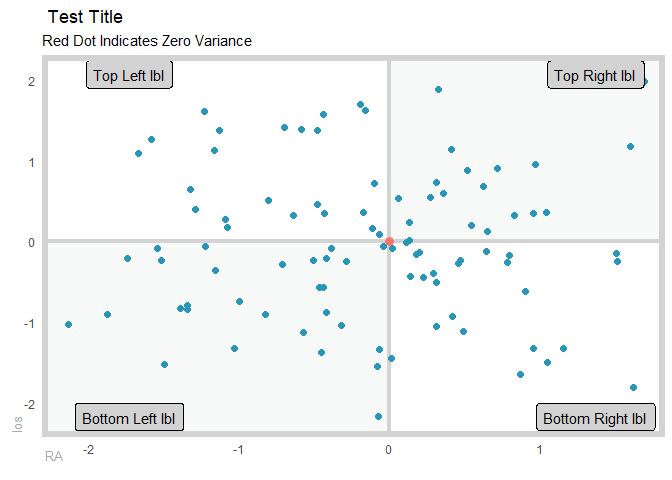
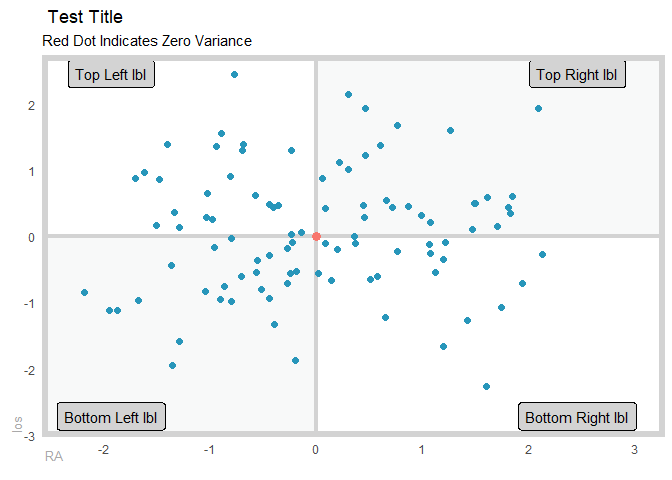
add lifecycle badge, issue cran checklist

diff --git a/docs/index.html b/docs/index.html
@@ -88,78 +88,82 @@
 <a href="#healthyr-" class="anchor"></a>healthyR <img src="reference/figures/healthyR_2.png" width="147" height="170" align="right">
 </h1></div>
 <!-- badges: start -->
-<!-- badges: end -->
+
 <p>The goal of healthyR is to help quickly analyze common data problems in the Administrative and Clincial spaces.</p>
 <div id="installation-not-yet-on-cran" class="section level2">
 <h2 class="hasAnchor">
 <a href="#installation-not-yet-on-cran" class="anchor"></a>Installation NOT YET ON CRAN</h2>
 <p>You can install the released version of healthyR from <a href="https://CRAN.R-project.org">CRAN</a> with:</p>
-<div class="sourceCode" id="cb1"><pre class="sourceCode R"><code class="sourceCode r"><span id="cb1-1"><a href="#cb1-1" aria-hidden="true"></a><span class="kw">install.packages</span>(<span class="st">"healthyR"</span>)</span></code></pre></div>
+<div class="sourceCode" id="cb1"><pre class="downlit sourceCode r">
+<code class="sourceCode R"><span class="fu"><a href="https://rdrr.io/r/utils/install.packages.html">install.packages</a></span><span class="op">(</span><span class="st">"healthyR"</span><span class="op">)</span></code></pre></div>
 <p>And the development version from <a href="https://github.com/">GitHub</a> with:</p>
-<div class="sourceCode" id="cb2"><pre class="sourceCode R"><code class="sourceCode r"><span id="cb2-1"><a href="#cb2-1" aria-hidden="true"></a><span class="co"># install.packages("devtools")</span></span>
-<span id="cb2-2"><a href="#cb2-2" aria-hidden="true"></a>devtools<span class="op">::</span><span class="kw">install_github</span>(<span class="st">"spsanderson/healthyR"</span>)</span></code></pre></div>
+<div class="sourceCode" id="cb2"><pre class="downlit sourceCode r">
+<code class="sourceCode R"><span class="co"># install.packages("devtools")</span>
+<span class="fu">devtools</span><span class="fu">::</span><span class="fu"><a href="https://devtools.r-lib.org//reference/remote-reexports.html">install_github</a></span><span class="op">(</span><span class="st">"spsanderson/healthyR"</span><span class="op">)</span></code></pre></div>
 </div>
 <div id="example" class="section level2">
 <h2 class="hasAnchor">
 <a href="#example" class="anchor"></a>Example</h2>
 <p>This is a basic example of using the ts_median_excess_plt() function`:</p>
-<div class="sourceCode" id="cb3"><pre class="sourceCode R"><code class="sourceCode r"><span id="cb3-1"><a href="#cb3-1" aria-hidden="true"></a><span class="kw">library</span>(healthyR)</span>
-<span id="cb3-2"><a href="#cb3-2" aria-hidden="true"></a><span class="kw">library</span>(timetk)</span>
-<span id="cb3-3"><a href="#cb3-3" aria-hidden="true"></a><span class="co">#&gt; Warning: package 'timetk' was built under R version 4.0.3</span></span>
-<span id="cb3-4"><a href="#cb3-4" aria-hidden="true"></a></span>
-<span id="cb3-5"><a href="#cb3-5" aria-hidden="true"></a><span class="kw">ts_ymwdh_tbl</span>(<span class="dt">.data =</span> m4_daily, <span class="dt">.date_col =</span> date) <span class="op">%&gt;%</span></span>
-<span id="cb3-6"><a href="#cb3-6" aria-hidden="true"></a><span class="st">    </span><span class="kw">ts_median_excess_plt</span>(</span>
-<span id="cb3-7"><a href="#cb3-7" aria-hidden="true"></a>        <span class="dt">.date_col =</span> date</span>
-<span id="cb3-8"><a href="#cb3-8" aria-hidden="true"></a>        , <span class="dt">.value_col =</span> value</span>
-<span id="cb3-9"><a href="#cb3-9" aria-hidden="true"></a>        , <span class="dt">.x_axis =</span> wk</span>
-<span id="cb3-10"><a href="#cb3-10" aria-hidden="true"></a>        , <span class="dt">.ggplot_group_var =</span> yr</span>
-<span id="cb3-11"><a href="#cb3-11" aria-hidden="true"></a>        , <span class="dt">.years_back =</span> <span class="dv">5</span></span>
-<span id="cb3-12"><a href="#cb3-12" aria-hidden="true"></a>    )</span>
-<span id="cb3-13"><a href="#cb3-13" aria-hidden="true"></a><span class="co">#&gt; Joining, by = "wk"</span></span></code></pre></div>
+<div class="sourceCode" id="cb3"><pre class="downlit sourceCode r">
+<code class="sourceCode R"><span class="kw"><a href="https://rdrr.io/r/base/library.html">library</a></span><span class="op">(</span><span class="va"><a href="https://github.com/spsanderson/healthyR">healthyR</a></span><span class="op">)</span>
+<span class="kw"><a href="https://rdrr.io/r/base/library.html">library</a></span><span class="op">(</span><span class="va"><a href="https://github.com/business-science/timetk">timetk</a></span><span class="op">)</span>
+
+<span class="fu"><a href="reference/ts_ymwdh_tbl.html">ts_ymwdh_tbl</a></span><span class="op">(</span>.data <span class="op">=</span> <span class="va">m4_daily</span>, .date_col <span class="op">=</span> <span class="va">date</span><span class="op">)</span> <span class="op">%&gt;%</span>
+    <span class="fu"><a href="reference/ts_median_excess_plt.html">ts_median_excess_plt</a></span><span class="op">(</span>
+        .date_col <span class="op">=</span> <span class="va">date</span>
+        , .value_col <span class="op">=</span> <span class="va">value</span>
+        , .x_axis <span class="op">=</span> <span class="va">wk</span>
+        , .ggplot_group_var <span class="op">=</span> <span class="va">yr</span>
+        , .years_back <span class="op">=</span> <span class="fl">5</span>
+    <span class="op">)</span>
+<span class="co">#&gt; Joining, by = "wk"</span></code></pre></div>
 <p><img src="reference/figures/README-example-1.png" width="100%"></p>
 <p>Here is a simple example of using the ts_ymwdh_tbl() function:</p>
-<div class="sourceCode" id="cb4"><pre class="sourceCode R"><code class="sourceCode r"><span id="cb4-1"><a href="#cb4-1" aria-hidden="true"></a><span class="kw">library</span>(healthyR)</span>
-<span id="cb4-2"><a href="#cb4-2" aria-hidden="true"></a><span class="kw">library</span>(timetk)</span>
-<span id="cb4-3"><a href="#cb4-3" aria-hidden="true"></a></span>
-<span id="cb4-4"><a href="#cb4-4" aria-hidden="true"></a><span class="kw">ts_ymwdh_tbl</span>(<span class="dt">.data =</span> m4_daily, <span class="dt">.date_col =</span> date)</span>
-<span id="cb4-5"><a href="#cb4-5" aria-hidden="true"></a><span class="co">#&gt; # A tibble: 9,743 x 8</span></span>
-<span id="cb4-6"><a href="#cb4-6" aria-hidden="true"></a><span class="co">#&gt;    id    date       value    yr mn       wk wd       hr</span></span>
-<span id="cb4-7"><a href="#cb4-7" aria-hidden="true"></a><span class="co">#&gt;    &lt;fct&gt; &lt;date&gt;     &lt;dbl&gt; &lt;dbl&gt; &lt;ord&gt; &lt;dbl&gt; &lt;ord&gt; &lt;int&gt;</span></span>
-<span id="cb4-8"><a href="#cb4-8" aria-hidden="true"></a><span class="co">#&gt;  1 D10   2014-07-03 2076.  2014 Jul      27 Thu       0</span></span>
-<span id="cb4-9"><a href="#cb4-9" aria-hidden="true"></a><span class="co">#&gt;  2 D10   2014-07-04 2073.  2014 Jul      27 Fri       0</span></span>
-<span id="cb4-10"><a href="#cb4-10" aria-hidden="true"></a><span class="co">#&gt;  3 D10   2014-07-05 2049.  2014 Jul      27 Sat       0</span></span>
-<span id="cb4-11"><a href="#cb4-11" aria-hidden="true"></a><span class="co">#&gt;  4 D10   2014-07-06 2049.  2014 Jul      27 Sun       0</span></span>
-<span id="cb4-12"><a href="#cb4-12" aria-hidden="true"></a><span class="co">#&gt;  5 D10   2014-07-07 2006.  2014 Jul      28 Mon       0</span></span>
-<span id="cb4-13"><a href="#cb4-13" aria-hidden="true"></a><span class="co">#&gt;  6 D10   2014-07-08 2018.  2014 Jul      28 Tue       0</span></span>
-<span id="cb4-14"><a href="#cb4-14" aria-hidden="true"></a><span class="co">#&gt;  7 D10   2014-07-09 2019.  2014 Jul      28 Wed       0</span></span>
-<span id="cb4-15"><a href="#cb4-15" aria-hidden="true"></a><span class="co">#&gt;  8 D10   2014-07-10 2007.  2014 Jul      28 Thu       0</span></span>
-<span id="cb4-16"><a href="#cb4-16" aria-hidden="true"></a><span class="co">#&gt;  9 D10   2014-07-11 2010   2014 Jul      28 Fri       0</span></span>
-<span id="cb4-17"><a href="#cb4-17" aria-hidden="true"></a><span class="co">#&gt; 10 D10   2014-07-12 2002.  2014 Jul      28 Sat       0</span></span>
-<span id="cb4-18"><a href="#cb4-18" aria-hidden="true"></a><span class="co">#&gt; # ... with 9,733 more rows</span></span></code></pre></div>
+<div class="sourceCode" id="cb4"><pre class="downlit sourceCode r">
+<code class="sourceCode R"><span class="kw"><a href="https://rdrr.io/r/base/library.html">library</a></span><span class="op">(</span><span class="va"><a href="https://github.com/spsanderson/healthyR">healthyR</a></span><span class="op">)</span>
+<span class="kw"><a href="https://rdrr.io/r/base/library.html">library</a></span><span class="op">(</span><span class="va"><a href="https://github.com/business-science/timetk">timetk</a></span><span class="op">)</span>
+
+<span class="fu"><a href="reference/ts_ymwdh_tbl.html">ts_ymwdh_tbl</a></span><span class="op">(</span>.data <span class="op">=</span> <span class="va">m4_daily</span>, .date_col <span class="op">=</span> <span class="va">date</span><span class="op">)</span>
+<span class="co">#&gt; # A tibble: 9,743 x 8</span>
+<span class="co">#&gt;    id    date       value    yr mn       wk wd       hr</span>
+<span class="co">#&gt;    &lt;fct&gt; &lt;date&gt;     &lt;dbl&gt; &lt;dbl&gt; &lt;ord&gt; &lt;dbl&gt; &lt;ord&gt; &lt;int&gt;</span>
+<span class="co">#&gt;  1 D10   2014-07-03 2076.  2014 Jul      27 Thu       0</span>
+<span class="co">#&gt;  2 D10   2014-07-04 2073.  2014 Jul      27 Fri       0</span>
+<span class="co">#&gt;  3 D10   2014-07-05 2049.  2014 Jul      27 Sat       0</span>
+<span class="co">#&gt;  4 D10   2014-07-06 2049.  2014 Jul      27 Sun       0</span>
+<span class="co">#&gt;  5 D10   2014-07-07 2006.  2014 Jul      28 Mon       0</span>
+<span class="co">#&gt;  6 D10   2014-07-08 2018.  2014 Jul      28 Tue       0</span>
+<span class="co">#&gt;  7 D10   2014-07-09 2019.  2014 Jul      28 Wed       0</span>
+<span class="co">#&gt;  8 D10   2014-07-10 2007.  2014 Jul      28 Thu       0</span>
+<span class="co">#&gt;  9 D10   2014-07-11 2010   2014 Jul      28 Fri       0</span>
+<span class="co">#&gt; 10 D10   2014-07-12 2002.  2014 Jul      28 Sat       0</span>
+<span class="co">#&gt; # ... with 9,733 more rows</span></code></pre></div>
 <p>Here is a simple example of using the plt_gartner_magic_chart() function:</p>
-<div class="sourceCode" id="cb5"><pre class="sourceCode R"><code class="sourceCode r"><span id="cb5-1"><a href="#cb5-1" aria-hidden="true"></a><span class="kw">library</span>(healthyR)</span>
-<span id="cb5-2"><a href="#cb5-2" aria-hidden="true"></a><span class="kw">library</span>(tibble)</span>
-<span id="cb5-3"><a href="#cb5-3" aria-hidden="true"></a><span class="kw">library</span>(dplyr)</span>
-<span id="cb5-4"><a href="#cb5-4" aria-hidden="true"></a><span class="co">#&gt; </span></span>
-<span id="cb5-5"><a href="#cb5-5" aria-hidden="true"></a><span class="co">#&gt; Attaching package: 'dplyr'</span></span>
-<span id="cb5-6"><a href="#cb5-6" aria-hidden="true"></a><span class="co">#&gt; The following objects are masked from 'package:stats':</span></span>
-<span id="cb5-7"><a href="#cb5-7" aria-hidden="true"></a><span class="co">#&gt; </span></span>
-<span id="cb5-8"><a href="#cb5-8" aria-hidden="true"></a><span class="co">#&gt;     filter, lag</span></span>
-<span id="cb5-9"><a href="#cb5-9" aria-hidden="true"></a><span class="co">#&gt; The following objects are masked from 'package:base':</span></span>
-<span id="cb5-10"><a href="#cb5-10" aria-hidden="true"></a><span class="co">#&gt; </span></span>
-<span id="cb5-11"><a href="#cb5-11" aria-hidden="true"></a><span class="co">#&gt;     intersect, setdiff, setequal, union</span></span>
-<span id="cb5-12"><a href="#cb5-12" aria-hidden="true"></a><span class="kw">gartner_magic_chart_plt</span>(</span>
-<span id="cb5-13"><a href="#cb5-13" aria-hidden="true"></a>  <span class="dt">.data =</span> <span class="kw">tibble</span>(<span class="dt">x =</span> <span class="kw">rnorm</span>(<span class="dv">100</span>, <span class="dv">0</span>, <span class="dv">1</span>), <span class="dt">y =</span> <span class="kw">rnorm</span>(<span class="dv">100</span>, <span class="dv">0</span>, <span class="dv">1</span>))</span>
-<span id="cb5-14"><a href="#cb5-14" aria-hidden="true"></a>  , <span class="dt">.x_col =</span> x</span>
-<span id="cb5-15"><a href="#cb5-15" aria-hidden="true"></a>  , <span class="dt">.y_col =</span> y</span>
-<span id="cb5-16"><a href="#cb5-16" aria-hidden="true"></a>  , <span class="dt">.y_lab =</span> <span class="st">"los"</span></span>
-<span id="cb5-17"><a href="#cb5-17" aria-hidden="true"></a>  , <span class="dt">.x_lab =</span> <span class="st">"RA"</span></span>
-<span id="cb5-18"><a href="#cb5-18" aria-hidden="true"></a>  , <span class="dt">.plt_title =</span> <span class="st">"Test Title"</span></span>
-<span id="cb5-19"><a href="#cb5-19" aria-hidden="true"></a>  , <span class="dt">.tl_lbl =</span> <span class="st">"Top Left lbl"</span></span>
-<span id="cb5-20"><a href="#cb5-20" aria-hidden="true"></a>  , <span class="dt">.tr_lbl =</span> <span class="st">"Top Right lbl"</span></span>
-<span id="cb5-21"><a href="#cb5-21" aria-hidden="true"></a>  , <span class="dt">.bl_lbl =</span> <span class="st">"Bottom Left lbl"</span></span>
-<span id="cb5-22"><a href="#cb5-22" aria-hidden="true"></a>  , <span class="dt">.br_lbl =</span> <span class="st">"Bottom Right lbl"</span></span>
-<span id="cb5-23"><a href="#cb5-23" aria-hidden="true"></a>)</span></code></pre></div>
+<div class="sourceCode" id="cb5"><pre class="downlit sourceCode r">
+<code class="sourceCode R"><span class="kw"><a href="https://rdrr.io/r/base/library.html">library</a></span><span class="op">(</span><span class="va"><a href="https://github.com/spsanderson/healthyR">healthyR</a></span><span class="op">)</span>
+<span class="kw"><a href="https://rdrr.io/r/base/library.html">library</a></span><span class="op">(</span><span class="va"><a href="https://tibble.tidyverse.org/">tibble</a></span><span class="op">)</span>
+<span class="kw"><a href="https://rdrr.io/r/base/library.html">library</a></span><span class="op">(</span><span class="va"><a href="https://dplyr.tidyverse.org">dplyr</a></span><span class="op">)</span>
+<span class="co">#&gt; </span>
+<span class="co">#&gt; Attaching package: 'dplyr'</span>
+<span class="co">#&gt; The following objects are masked from 'package:stats':</span>
+<span class="co">#&gt; </span>
+<span class="co">#&gt;     filter, lag</span>
+<span class="co">#&gt; The following objects are masked from 'package:base':</span>
+<span class="co">#&gt; </span>
+<span class="co">#&gt;     intersect, setdiff, setequal, union</span>
+<span class="fu"><a href="reference/gartner_magic_chart_plt.html">gartner_magic_chart_plt</a></span><span class="op">(</span>
+  .data <span class="op">=</span> <span class="fu"><a href="https://tibble.tidyverse.org/reference/tibble.html">tibble</a></span><span class="op">(</span>x <span class="op">=</span> <span class="fu"><a href="https://rdrr.io/r/stats/Normal.html">rnorm</a></span><span class="op">(</span><span class="fl">100</span>, <span class="fl">0</span>, <span class="fl">1</span><span class="op">)</span>, y <span class="op">=</span> <span class="fu"><a href="https://rdrr.io/r/stats/Normal.html">rnorm</a></span><span class="op">(</span><span class="fl">100</span>, <span class="fl">0</span>, <span class="fl">1</span><span class="op">)</span><span class="op">)</span>
+  , .x_col <span class="op">=</span> <span class="va">x</span>
+  , .y_col <span class="op">=</span> <span class="va">y</span>
+  , .y_lab <span class="op">=</span> <span class="st">"los"</span>
+  , .x_lab <span class="op">=</span> <span class="st">"RA"</span>
+  , .plt_title <span class="op">=</span> <span class="st">"Test Title"</span>
+  , .tl_lbl <span class="op">=</span> <span class="st">"Top Left lbl"</span>
+  , .tr_lbl <span class="op">=</span> <span class="st">"Top Right lbl"</span>
+  , .bl_lbl <span class="op">=</span> <span class="st">"Bottom Left lbl"</span>
+  , .br_lbl <span class="op">=</span> <span class="st">"Bottom Right lbl"</span>
+<span class="op">)</span></code></pre></div>
 <p><img src="reference/figures/README-gartner_chart-1.png" width="100%"></p>
 </div>
 </div>
@@ -190,7 +194,13 @@
 </ul>
 </div>
 
-  </div>
+  <div class="dev-status">
+<h2>Dev status</h2>
+<ul class="list-unstyled">
+<li><a href="https://www.tidyverse.org/lifecycle/#experimental"><img src="https://img.shields.io/badge/lifecycle-experimental-orange.svg" alt="Lifecycle: experimental"></a></li>
+</ul>
+</div>
+</div>
 </div>
 
 

diff --git a/docs/articles/getting-started.html b/docs/articles/getting-started.html
@@ -90,7 +90,7 @@
             <h3 class="subtitle">A Quick Introduction</h3>
                         <h4 class="author">Steven P. Sanderson II, MPH</h4>
             
-            <h4 class="date">2020-11-11</h4>
+            <h4 class="date">2020-11-24</h4>
       
       <small class="dont-index">Source: <a href="https://github.com/spsanderson/healthyR/blob/master/vignettes/getting-started.Rmd"><code>vignettes/getting-started.Rmd</code></a></small>
       <div class="hidden name"><code>getting-started.Rmd</code></div>
@@ -160,7 +160,7 @@
   , .interactive <span class="op">=</span> <span class="cn">TRUE</span>
 <span class="op">)</span></code></pre></div>
 <div id="htmlwidget-5f9add76c3579b426da7" style="width:95%;height:450px;" class="plotly html-widget"></div>
-<script type="application/json" data-for="htmlwidget-5f9add76c3579b426da7">{"x":{"data":[{"x":["2019-01-01","2019-02-01","2019-03-01","2019-04-01","2019-05-01","2019-06-01","2019-07-01","2019-08-01","2019-09-01","2019-10-01","2019-11-01","2019-12-01","2020-01-01","2020-02-01","2020-03-01","2020-04-01","2020-05-01","2020-06-01","2020-07-01"],"y":[7.9250046964209,7.11102484085131,7.54077755309071,7.59627604969622,7.44929036305797,7.40050995865992,7.53757064257027,7.51136458846891,7.66347521120527,7.26223597517087,7.36445771281918,7.52816434292453,7.51204280960073,7.38782165660362,7.3328502720312,7.42973463140273,7.29850236874735,7.58981851837598,9.27182373241521],"text":["date: 2019-01-01<br />.value: 7.925005","date: 2019-02-01<br />.value: 7.111025","date: 2019-03-01<br />.value: 7.540778","date: 2019-04-01<br />.value: 7.596276","date: 2019-05-01<br />.value: 7.449290","date: 2019-06-01<br />.value: 7.400510","date: 2019-07-01<br />.value: 7.537571","date: 2019-08-01<br />.value: 7.511365","date: 2019-09-01<br />.value: 7.663475","date: 2019-10-01<br />.value: 7.262236","date: 2019-11-01<br />.value: 7.364458","date: 2019-12-01<br />.value: 7.528164","date: 2020-01-01<br />.value: 7.512043","date: 2020-02-01<br />.value: 7.387822","date: 2020-03-01<br />.value: 7.332850","date: 2020-04-01<br />.value: 7.429735","date: 2020-05-01<br />.value: 7.298502","date: 2020-06-01<br />.value: 7.589819","date: 2020-07-01<br />.value: 9.271824"],"type":"scatter","mode":"lines","line":{"width":1.88976377952756,"color":"rgba(44,62,80,1)","dash":"solid"},"hoveron":"points","showlegend":false,"xaxis":"x","yaxis":"y","hoverinfo":"text","frame":null},{"x":["2019-01-01","2019-02-01","2019-03-01","2019-04-01","2019-05-01","2019-06-01","2019-07-01","2019-08-01","2019-09-01","2019-10-01","2019-11-01","2019-12-01","2020-01-01","2020-02-01","2020-03-01","2020-04-01","2020-05-01","2020-06-01","2020-07-01"],"y":[7.61068931522505,7.56532844121895,7.5291286964224,7.50386083297645,7.48636196307439,7.48043259909367,7.48409872426944,7.48340103366478,7.47725933871844,7.4700564949986,7.43014015503159,7.36973384704721,7.34888664585791,7.351340617546,7.41444949347947,7.5805932114223,7.8160538477958,8.13659865267639,8.53449466113692],"text":[".value_smooth: 7.610689<br />date: 2019-01-01<br />.value: 7.610689",".value_smooth: 7.565328<br />date: 2019-02-01<br />.value: 7.565328",".value_smooth: 7.529129<br />date: 2019-03-01<br />.value: 7.529129",".value_smooth: 7.503861<br />date: 2019-04-01<br />.value: 7.503861",".value_smooth: 7.486362<br />date: 2019-05-01<br />.value: 7.486362",".value_smooth: 7.480433<br />date: 2019-06-01<br />.value: 7.480433",".value_smooth: 7.484099<br />date: 2019-07-01<br />.value: 7.484099",".value_smooth: 7.483401<br />date: 2019-08-01<br />.value: 7.483401",".value_smooth: 7.477259<br />date: 2019-09-01<br />.value: 7.477259",".value_smooth: 7.470056<br />date: 2019-10-01<br />.value: 7.470056",".value_smooth: 7.430140<br />date: 2019-11-01<br />.value: 7.430140",".value_smooth: 7.369734<br />date: 2019-12-01<br />.value: 7.369734",".value_smooth: 7.348887<br />date: 2020-01-01<br />.value: 7.348887",".value_smooth: 7.351341<br />date: 2020-02-01<br />.value: 7.351341",".value_smooth: 7.414449<br />date: 2020-03-01<br />.value: 7.414449",".value_smooth: 7.580593<br />date: 2020-04-01<br />.value: 7.580593",".value_smooth: 7.816054<br />date: 2020-05-01<br />.value: 7.816054",".value_smooth: 8.136599<br />date: 2020-06-01<br />.value: 8.136599",".value_smooth: 8.534495<br />date: 2020-07-01<br />.value: 8.534495"],"type":"scatter","mode":"lines","line":{"width":3.77952755905512,"color":"rgba(51,102,255,1)","dash":"solid"},"hoveron":"points","showlegend":false,"xaxis":"x","yaxis":"y","hoverinfo":"text","frame":null}],"layout":{"margin":{"t":46.5225773718924,"r":7.30593607305936,"b":28.3307965499746,"l":28.4931506849315},"plot_bgcolor":"rgba(255,255,255,1)","paper_bgcolor":"rgba(255,255,255,1)","font":{"color":"rgba(44,62,80,1)","family":"","size":14.6118721461187},"title":{"text":"Average Length of Stay Plot","font":{"color":"rgba(44,62,80,1)","family":"","size":17.5342465753425},"x":0,"xref":"paper"},"xaxis":{"domain":[0,1],"automargin":true,"type":"date","autorange":true,"range":["2018-12-04","2020-07-28"],"tickmode":"auto","ticktext":["2019-01","2019-07","2020-01","2020-07"],"tickvals":[17897,18078,18262,18444],"categoryorder":"array","categoryarray":["2019-01","2019-07","2020-01","2020-07"],"nticks":null,"ticks":"outside","tickcolor":"rgba(204,204,204,1)","ticklen":3.65296803652968,"tickwidth":0.22139200221392,"showticklabels":true,"tickfont":{"color":"rgba(44,62,80,1)","family":"","size":11.689497716895},"tickangle":-0,"showline":false,"linecolor":null,"linewidth":0,"showgrid":true,"gridcolor":"rgba(204,204,204,1)","gridwidth":0.22139200221392,"zeroline":false,"anchor":"y","title":{"text":"","font":{"color":"rgba(44,62,80,1)","family":"","size":14.6118721461187}},"hoverformat":".2f"},"yaxis":{"domain":[0,1],"automargin":true,"type":"linear","autorange":true,"range":[7.00298489627312,9.37986367699341],"tickmode":"auto","ticktext":["7.5","8.0","8.5","9.0"],"tickvals":[7.5,8,8.5,9],"categoryorder":"array","categoryarray":["7.5","8.0","8.5","9.0"],"nticks":null,"ticks":"outside","tickcolor":"rgba(204,204,204,1)","ticklen":3.65296803652968,"tickwidth":0.22139200221392,"showticklabels":true,"tickfont":{"color":"rgba(44,62,80,1)","family":"","size":11.689497716895},"tickangle":-0,"showline":false,"linecolor":null,"linewidth":0,"showgrid":true,"gridcolor":"rgba(204,204,204,1)","gridwidth":0.22139200221392,"zeroline":false,"anchor":"x","title":{"text":"","font":{"color":"rgba(44,62,80,1)","family":"","size":14.6118721461187}},"hoverformat":".2f"},"shapes":[{"type":"rect","fillcolor":"transparent","line":{"color":"rgba(44,62,80,1)","width":0.33208800332088,"linetype":"solid"},"yref":"paper","xref":"paper","x0":0,"x1":1,"y0":0,"y1":1}],"showlegend":false,"legend":{"bgcolor":"rgba(255,255,255,1)","bordercolor":"transparent","borderwidth":1.88976377952756,"font":{"color":"rgba(44,62,80,1)","family":"","size":11.689497716895}},"hovermode":"closest","barmode":"relative"},"config":{"doubleClick":"reset","showSendToCloud":false},"source":"A","attrs":{"1fdc4d8fdb3":{"x":{},"y":{},"type":"scatter"},"1fdc107ecf":{"y":{},"x":{},"y.1":{}}},"cur_data":"1fdc4d8fdb3","visdat":{"1fdc4d8fdb3":["function (y) ","x"],"1fdc107ecf":["function (y) ","x"]},"highlight":{"on":"plotly_click","persistent":false,"dynamic":false,"selectize":false,"opacityDim":0.2,"selected":{"opacity":1},"debounce":0},"shinyEvents":["plotly_hover","plotly_click","plotly_selected","plotly_relayout","plotly_brushed","plotly_brushing","plotly_clickannotation","plotly_doubleclick","plotly_deselect","plotly_afterplot","plotly_sunburstclick"],"base_url":"https://plot.ly"},"evals":[],"jsHooks":[]}</script><p>As we can see, this function has the ability to return either a static plot or and interactive plot. Under the hood it is using the <code><a href="https://rdrr.io/pkg/timetk/man/plot_time_series.html">timetk::plot_time_series</a></code> function. You can find out more on the the timetk function <a href="https://business-science.github.io/timetk/reference/plot_time_series.html">here.</a></p>
+<script type="application/json" data-for="htmlwidget-5f9add76c3579b426da7">{"x":{"data":[{"x":["2019-01-01","2019-02-01","2019-03-01","2019-04-01","2019-05-01","2019-06-01","2019-07-01","2019-08-01","2019-09-01","2019-10-01","2019-11-01","2019-12-01","2020-01-01","2020-02-01","2020-03-01","2020-04-01","2020-05-01","2020-06-01","2020-07-01"],"y":[7.9250046964209,7.11102484085131,7.54077755309071,7.59627604969622,7.44929036305797,7.40050995865992,7.53757064257027,7.51136458846891,7.66347521120527,7.26223597517087,7.36445771281918,7.52816434292453,7.51204280960073,7.38782165660362,7.3328502720312,7.42973463140273,7.29850236874735,7.58981851837598,9.27182373241521],"text":["date: 2019-01-01<br />.value: 7.925005","date: 2019-02-01<br />.value: 7.111025","date: 2019-03-01<br />.value: 7.540778","date: 2019-04-01<br />.value: 7.596276","date: 2019-05-01<br />.value: 7.449290","date: 2019-06-01<br />.value: 7.400510","date: 2019-07-01<br />.value: 7.537571","date: 2019-08-01<br />.value: 7.511365","date: 2019-09-01<br />.value: 7.663475","date: 2019-10-01<br />.value: 7.262236","date: 2019-11-01<br />.value: 7.364458","date: 2019-12-01<br />.value: 7.528164","date: 2020-01-01<br />.value: 7.512043","date: 2020-02-01<br />.value: 7.387822","date: 2020-03-01<br />.value: 7.332850","date: 2020-04-01<br />.value: 7.429735","date: 2020-05-01<br />.value: 7.298502","date: 2020-06-01<br />.value: 7.589819","date: 2020-07-01<br />.value: 9.271824"],"type":"scatter","mode":"lines","line":{"width":1.88976377952756,"color":"rgba(44,62,80,1)","dash":"solid"},"hoveron":"points","showlegend":false,"xaxis":"x","yaxis":"y","hoverinfo":"text","frame":null},{"x":["2019-01-01","2019-02-01","2019-03-01","2019-04-01","2019-05-01","2019-06-01","2019-07-01","2019-08-01","2019-09-01","2019-10-01","2019-11-01","2019-12-01","2020-01-01","2020-02-01","2020-03-01","2020-04-01","2020-05-01","2020-06-01","2020-07-01"],"y":[7.61068931522505,7.56532844121895,7.5291286964224,7.50386083297645,7.48636196307439,7.48043259909367,7.48409872426944,7.48340103366478,7.47725933871844,7.4700564949986,7.43014015503159,7.36973384704721,7.34888664585791,7.351340617546,7.41444949347947,7.5805932114223,7.8160538477958,8.13659865267639,8.53449466113692],"text":[".value_smooth: 7.610689<br />date: 2019-01-01<br />.value: 7.610689",".value_smooth: 7.565328<br />date: 2019-02-01<br />.value: 7.565328",".value_smooth: 7.529129<br />date: 2019-03-01<br />.value: 7.529129",".value_smooth: 7.503861<br />date: 2019-04-01<br />.value: 7.503861",".value_smooth: 7.486362<br />date: 2019-05-01<br />.value: 7.486362",".value_smooth: 7.480433<br />date: 2019-06-01<br />.value: 7.480433",".value_smooth: 7.484099<br />date: 2019-07-01<br />.value: 7.484099",".value_smooth: 7.483401<br />date: 2019-08-01<br />.value: 7.483401",".value_smooth: 7.477259<br />date: 2019-09-01<br />.value: 7.477259",".value_smooth: 7.470056<br />date: 2019-10-01<br />.value: 7.470056",".value_smooth: 7.430140<br />date: 2019-11-01<br />.value: 7.430140",".value_smooth: 7.369734<br />date: 2019-12-01<br />.value: 7.369734",".value_smooth: 7.348887<br />date: 2020-01-01<br />.value: 7.348887",".value_smooth: 7.351341<br />date: 2020-02-01<br />.value: 7.351341",".value_smooth: 7.414449<br />date: 2020-03-01<br />.value: 7.414449",".value_smooth: 7.580593<br />date: 2020-04-01<br />.value: 7.580593",".value_smooth: 7.816054<br />date: 2020-05-01<br />.value: 7.816054",".value_smooth: 8.136599<br />date: 2020-06-01<br />.value: 8.136599",".value_smooth: 8.534495<br />date: 2020-07-01<br />.value: 8.534495"],"type":"scatter","mode":"lines","line":{"width":3.77952755905512,"color":"rgba(51,102,255,1)","dash":"solid"},"hoveron":"points","showlegend":false,"xaxis":"x","yaxis":"y","hoverinfo":"text","frame":null}],"layout":{"margin":{"t":46.5225773718924,"r":7.30593607305936,"b":28.3307965499746,"l":28.4931506849315},"plot_bgcolor":"rgba(255,255,255,1)","paper_bgcolor":"rgba(255,255,255,1)","font":{"color":"rgba(44,62,80,1)","family":"","size":14.6118721461187},"title":{"text":"Average Length of Stay Plot","font":{"color":"rgba(44,62,80,1)","family":"","size":17.5342465753425},"x":0,"xref":"paper"},"xaxis":{"domain":[0,1],"automargin":true,"type":"date","autorange":true,"range":["2018-12-04","2020-07-28"],"tickmode":"auto","ticktext":["2019-01","2019-07","2020-01","2020-07"],"tickvals":[17897,18078,18262,18444],"categoryorder":"array","categoryarray":["2019-01","2019-07","2020-01","2020-07"],"nticks":null,"ticks":"outside","tickcolor":"rgba(204,204,204,1)","ticklen":3.65296803652968,"tickwidth":0.22139200221392,"showticklabels":true,"tickfont":{"color":"rgba(44,62,80,1)","family":"","size":11.689497716895},"tickangle":-0,"showline":false,"linecolor":null,"linewidth":0,"showgrid":true,"gridcolor":"rgba(204,204,204,1)","gridwidth":0.22139200221392,"zeroline":false,"anchor":"y","title":{"text":"","font":{"color":"rgba(44,62,80,1)","family":"","size":14.6118721461187}},"hoverformat":".2f"},"yaxis":{"domain":[0,1],"automargin":true,"type":"linear","autorange":true,"range":[7.00298489627312,9.37986367699341],"tickmode":"auto","ticktext":["7.5","8.0","8.5","9.0"],"tickvals":[7.5,8,8.5,9],"categoryorder":"array","categoryarray":["7.5","8.0","8.5","9.0"],"nticks":null,"ticks":"outside","tickcolor":"rgba(204,204,204,1)","ticklen":3.65296803652968,"tickwidth":0.22139200221392,"showticklabels":true,"tickfont":{"color":"rgba(44,62,80,1)","family":"","size":11.689497716895},"tickangle":-0,"showline":false,"linecolor":null,"linewidth":0,"showgrid":true,"gridcolor":"rgba(204,204,204,1)","gridwidth":0.22139200221392,"zeroline":false,"anchor":"x","title":{"text":"","font":{"color":"rgba(44,62,80,1)","family":"","size":14.6118721461187}},"hoverformat":".2f"},"shapes":[{"type":"rect","fillcolor":"transparent","line":{"color":"rgba(44,62,80,1)","width":0.33208800332088,"linetype":"solid"},"yref":"paper","xref":"paper","x0":0,"x1":1,"y0":0,"y1":1}],"showlegend":false,"legend":{"bgcolor":"rgba(255,255,255,1)","bordercolor":"transparent","borderwidth":1.88976377952756,"font":{"color":"rgba(44,62,80,1)","family":"","size":11.689497716895}},"hovermode":"closest","barmode":"relative"},"config":{"doubleClick":"reset","showSendToCloud":false},"source":"A","attrs":{"41f837bc56d7":{"x":{},"y":{},"type":"scatter"},"41f81a4113c":{"y":{},"x":{},"y.1":{}}},"cur_data":"41f837bc56d7","visdat":{"41f837bc56d7":["function (y) ","x"],"41f81a4113c":["function (y) ","x"]},"highlight":{"on":"plotly_click","persistent":false,"dynamic":false,"selectize":false,"opacityDim":0.2,"selected":{"opacity":1},"debounce":0},"shinyEvents":["plotly_hover","plotly_click","plotly_selected","plotly_relayout","plotly_brushed","plotly_brushing","plotly_clickannotation","plotly_doubleclick","plotly_deselect","plotly_afterplot","plotly_sunburstclick"],"base_url":"https://plot.ly"},"evals":[],"jsHooks":[]}</script><p>As we can see, this function has the ability to return either a static plot or and interactive plot. Under the hood it is using the <code><a href="https://rdrr.io/pkg/timetk/man/plot_time_series.html">timetk::plot_time_series</a></code> function. You can find out more on the the timetk function <a href="https://business-science.github.io/timetk/reference/plot_time_series.html">here.</a></p>
 <p>That is the end of this first and very quick tutorial on the <code>ts_alos_plt</code> function.</p>
 </div>
   </div>

diff --git a/docs/reference/los_ra_index_summary_tbl.html b/docs/reference/los_ra_index_summary_tbl.html
@@ -211,7 +211,7 @@ over their respective expectations.</p></li>
     <pre class="examples"><div class='input'><span class='kw'><a href='https://rdrr.io/r/base/library.html'>library</a></span><span class='op'>(</span><span class='va'><a href='https://tibble.tidyverse.org/'>tibble</a></span><span class='op'>)</span>
 <span class='kw'><a href='https://rdrr.io/r/base/library.html'>library</a></span><span class='op'>(</span><span class='va'><a href='https://dplyr.tidyverse.org'>dplyr</a></span><span class='op'>)</span>
 <span class='kw'><a href='https://rdrr.io/r/base/library.html'>library</a></span><span class='op'>(</span><span class='va'><a href='https://github.com/business-science/timetk'>timetk</a></span><span class='op'>)</span>
-</div><div class='output co'>#&gt; <span class='warning'>Warning: package 'timetk' was built under R version 4.0.3</span></div><div class='input'><span class='va'>data_tbl</span> <span class='op'>&lt;-</span> <span class='fu'><a href='https://tibble.tidyverse.org/reference/tibble.html'>tibble</a></span><span class='op'>(</span>
+<span class='va'>data_tbl</span> <span class='op'>&lt;-</span> <span class='fu'><a href='https://tibble.tidyverse.org/reference/tibble.html'>tibble</a></span><span class='op'>(</span>
   <span class='st'>"alos"</span>                 <span class='op'>=</span> <span class='fu'><a href='https://rdrr.io/r/stats/Uniform.html'>runif</a></span><span class='op'>(</span><span class='fl'>186</span>, <span class='fl'>1</span>, <span class='fl'>20</span><span class='op'>)</span>
   , <span class='st'>"elos"</span>               <span class='op'>=</span> <span class='fu'><a href='https://rdrr.io/r/stats/Uniform.html'>runif</a></span><span class='op'>(</span><span class='fl'>186</span>, <span class='fl'>1</span>, <span class='fl'>17</span><span class='op'>)</span>
   , <span class='st'>"readmit_rate"</span>       <span class='op'>=</span> <span class='fu'><a href='https://rdrr.io/r/stats/Uniform.html'>runif</a></span><span class='op'>(</span><span class='fl'>186</span>, <span class='fl'>0</span>, <span class='fl'>.25</span><span class='op'>)</span>

diff --git a/docs/reference/ts_ymwdh_tbl.html b/docs/reference/ts_ymwdh_tbl.html
@@ -167,7 +167,7 @@ should be dropped or kept when using further functions</p></li>
     <h2 class="hasAnchor" id="examples"><a class="anchor" href="#examples"></a>Examples</h2>
     <pre class="examples"><div class='input'><span class='kw'><a href='https://rdrr.io/r/base/library.html'>library</a></span><span class='op'>(</span><span class='va'><a href='https://github.com/business-science/timetk'>timetk</a></span><span class='op'>)</span>
 <span class='kw'><a href='https://rdrr.io/r/base/library.html'>library</a></span><span class='op'>(</span><span class='va'><a href='https://dplyr.tidyverse.org'>dplyr</a></span><span class='op'>)</span>
-<span class='kw'><a href='https://rdrr.io/r/base/library.html'>library</a></span><span class='op'>(</span><span class='va'><a href='http://lubridate.tidyverse.org'>lubridate</a></span><span class='op'>)</span>
+<span class='kw'><a href='https://rdrr.io/r/base/library.html'>library</a></span><span class='op'>(</span><span class='va'><a href='https://lubridate.tidyverse.org'>lubridate</a></span><span class='op'>)</span>
 <span class='fu'>ts_ymwdh_tbl</span><span class='op'>(</span>
   .data <span class='op'>=</span> <span class='va'>m4_daily</span>
   , .date_col <span class='op'>=</span> <span class='va'>date</span>

diff --git a/docs/reference/ts_median_excess_plt.html b/docs/reference/ts_median_excess_plt.html
@@ -187,7 +187,7 @@ over a specified time series tibble</p></li>
     <h2 class="hasAnchor" id="examples"><a class="anchor" href="#examples"></a>Examples</h2>
     <pre class="examples"><div class='input'><span class='kw'><a href='https://rdrr.io/r/base/library.html'>library</a></span><span class='op'>(</span><span class='va'><a href='https://github.com/business-science/timetk'>timetk</a></span><span class='op'>)</span>
 <span class='kw'><a href='https://rdrr.io/r/base/library.html'>library</a></span><span class='op'>(</span><span class='va'><a href='https://dplyr.tidyverse.org'>dplyr</a></span><span class='op'>)</span>
-<span class='kw'><a href='https://rdrr.io/r/base/library.html'>library</a></span><span class='op'>(</span><span class='va'><a href='http://lubridate.tidyverse.org'>lubridate</a></span><span class='op'>)</span>
+<span class='kw'><a href='https://rdrr.io/r/base/library.html'>library</a></span><span class='op'>(</span><span class='va'><a href='https://lubridate.tidyverse.org'>lubridate</a></span><span class='op'>)</span>
 
 <span class='fu'><a href='ts_ymwdh_tbl.html'>ts_ymwdh_tbl</a></span><span class='op'>(</span>
   .data <span class='op'>=</span> <span class='va'>m4_daily</span>

diff --git a/README.md b/README.md
@@ -4,6 +4,9 @@
 # healthyR <img src="man/figures/healthyR_2.png" width="147" height="170" align="right" />
 
 <!-- badges: start -->
+
+[![Lifecycle:
+experimental](https://img.shields.io/badge/lifecycle-experimental-orange.svg)](https://www.tidyverse.org/lifecycle/#experimental)
 <!-- badges: end -->
 
 The goal of healthyR is to help quickly analyze common data problems in
@@ -14,81 +17,89 @@ the Administrative and Clincial spaces.
 You can install the released version of healthyR from
 [CRAN](https://CRAN.R-project.org) with:
 
-    install.packages("healthyR")
+``` r
+install.packages("healthyR")
+```
 
 And the development version from [GitHub](https://github.com/) with:
 
-    # install.packages("devtools")
-    devtools::install_github("spsanderson/healthyR")
+``` r
+# install.packages("devtools")
+devtools::install_github("spsanderson/healthyR")
+```
 
 ## Example
 
 This is a basic example of using the ts\_median\_excess\_plt()
 function\`:
 
-    library(healthyR)
-    library(timetk)
-    #> Warning: package 'timetk' was built under R version 4.0.3
+``` r
+library(healthyR)
+library(timetk)
 
-    ts_ymwdh_tbl(.data = m4_daily, .date_col = date) %>%
-        ts_median_excess_plt(
-            .date_col = date
-            , .value_col = value
-            , .x_axis = wk
-            , .ggplot_group_var = yr
-            , .years_back = 5
-        )
-    #> Joining, by = "wk"
+ts_ymwdh_tbl(.data = m4_daily, .date_col = date) %>%
+    ts_median_excess_plt(
+        .date_col = date
+        , .value_col = value
+        , .x_axis = wk
+        , .ggplot_group_var = yr
+        , .years_back = 5
+    )
+#> Joining, by = "wk"
+```
 
 <img src="man/figures/README-example-1.png" width="100%" />
 
 Here is a simple example of using the ts\_ymwdh\_tbl() function:
 
-    library(healthyR)
-    library(timetk)
+``` r
+library(healthyR)
+library(timetk)
 
-    ts_ymwdh_tbl(.data = m4_daily, .date_col = date)
-    #> # A tibble: 9,743 x 8
-    #>    id    date       value    yr mn       wk wd       hr
-    #>    <fct> <date>     <dbl> <dbl> <ord> <dbl> <ord> <int>
-    #>  1 D10   2014-07-03 2076.  2014 Jul      27 Thu       0
-    #>  2 D10   2014-07-04 2073.  2014 Jul      27 Fri       0
-    #>  3 D10   2014-07-05 2049.  2014 Jul      27 Sat       0
-    #>  4 D10   2014-07-06 2049.  2014 Jul      27 Sun       0
-    #>  5 D10   2014-07-07 2006.  2014 Jul      28 Mon       0
-    #>  6 D10   2014-07-08 2018.  2014 Jul      28 Tue       0
-    #>  7 D10   2014-07-09 2019.  2014 Jul      28 Wed       0
-    #>  8 D10   2014-07-10 2007.  2014 Jul      28 Thu       0
-    #>  9 D10   2014-07-11 2010   2014 Jul      28 Fri       0
-    #> 10 D10   2014-07-12 2002.  2014 Jul      28 Sat       0
-    #> # ... with 9,733 more rows
+ts_ymwdh_tbl(.data = m4_daily, .date_col = date)
+#> # A tibble: 9,743 x 8
+#>    id    date       value    yr mn       wk wd       hr
+#>    <fct> <date>     <dbl> <dbl> <ord> <dbl> <ord> <int>
+#>  1 D10   2014-07-03 2076.  2014 Jul      27 Thu       0
+#>  2 D10   2014-07-04 2073.  2014 Jul      27 Fri       0
+#>  3 D10   2014-07-05 2049.  2014 Jul      27 Sat       0
+#>  4 D10   2014-07-06 2049.  2014 Jul      27 Sun       0
+#>  5 D10   2014-07-07 2006.  2014 Jul      28 Mon       0
+#>  6 D10   2014-07-08 2018.  2014 Jul      28 Tue       0
+#>  7 D10   2014-07-09 2019.  2014 Jul      28 Wed       0
+#>  8 D10   2014-07-10 2007.  2014 Jul      28 Thu       0
+#>  9 D10   2014-07-11 2010   2014 Jul      28 Fri       0
+#> 10 D10   2014-07-12 2002.  2014 Jul      28 Sat       0
+#> # ... with 9,733 more rows
+```
 
 Here is a simple example of using the plt\_gartner\_magic\_chart()
 function:
 
-
-    library(healthyR)
-    library(tibble)
-    library(dplyr)
-    #> 
-    #> Attaching package: 'dplyr'
-    #> The following objects are masked from 'package:stats':
-    #> 
-    #>     filter, lag
-    #> The following objects are masked from 'package:base':
-    #> 
-    #>     intersect, setdiff, setequal, union
-    gartner_magic_chart_plt(
-      .data = tibble(x = rnorm(100, 0, 1), y = rnorm(100, 0, 1))
-      , .x_col = x
-      , .y_col = y
-      , .y_lab = "los"
-      , .x_lab = "RA"
-      , .plt_title = "Test Title"
-      , .tl_lbl = "Top Left lbl"
-      , .tr_lbl = "Top Right lbl"
-      , .bl_lbl = "Bottom Left lbl"
-      , .br_lbl = "Bottom Right lbl"
-    )
+``` r
+library(healthyR)
+library(tibble)
+library(dplyr)
+#> 
+#> Attaching package: 'dplyr'
+#> The following objects are masked from 'package:stats':
+#> 
+#>     filter, lag
+#> The following objects are masked from 'package:base':
+#> 
+#>     intersect, setdiff, setequal, union
+gartner_magic_chart_plt(
+  .data = tibble(x = rnorm(100, 0, 1), y = rnorm(100, 0, 1))
+  , .x_col = x
+  , .y_col = y
+  , .y_lab = "los"
+  , .x_lab = "RA"
+  , .plt_title = "Test Title"
+  , .tl_lbl = "Top Left lbl"
+  , .tr_lbl = "Top Right lbl"
+  , .bl_lbl = "Bottom Left lbl"
+  , .br_lbl = "Bottom Right lbl"
+)
+```
 
 <img src="man/figures/README-gartner_chart-1.png" width="100%" />
